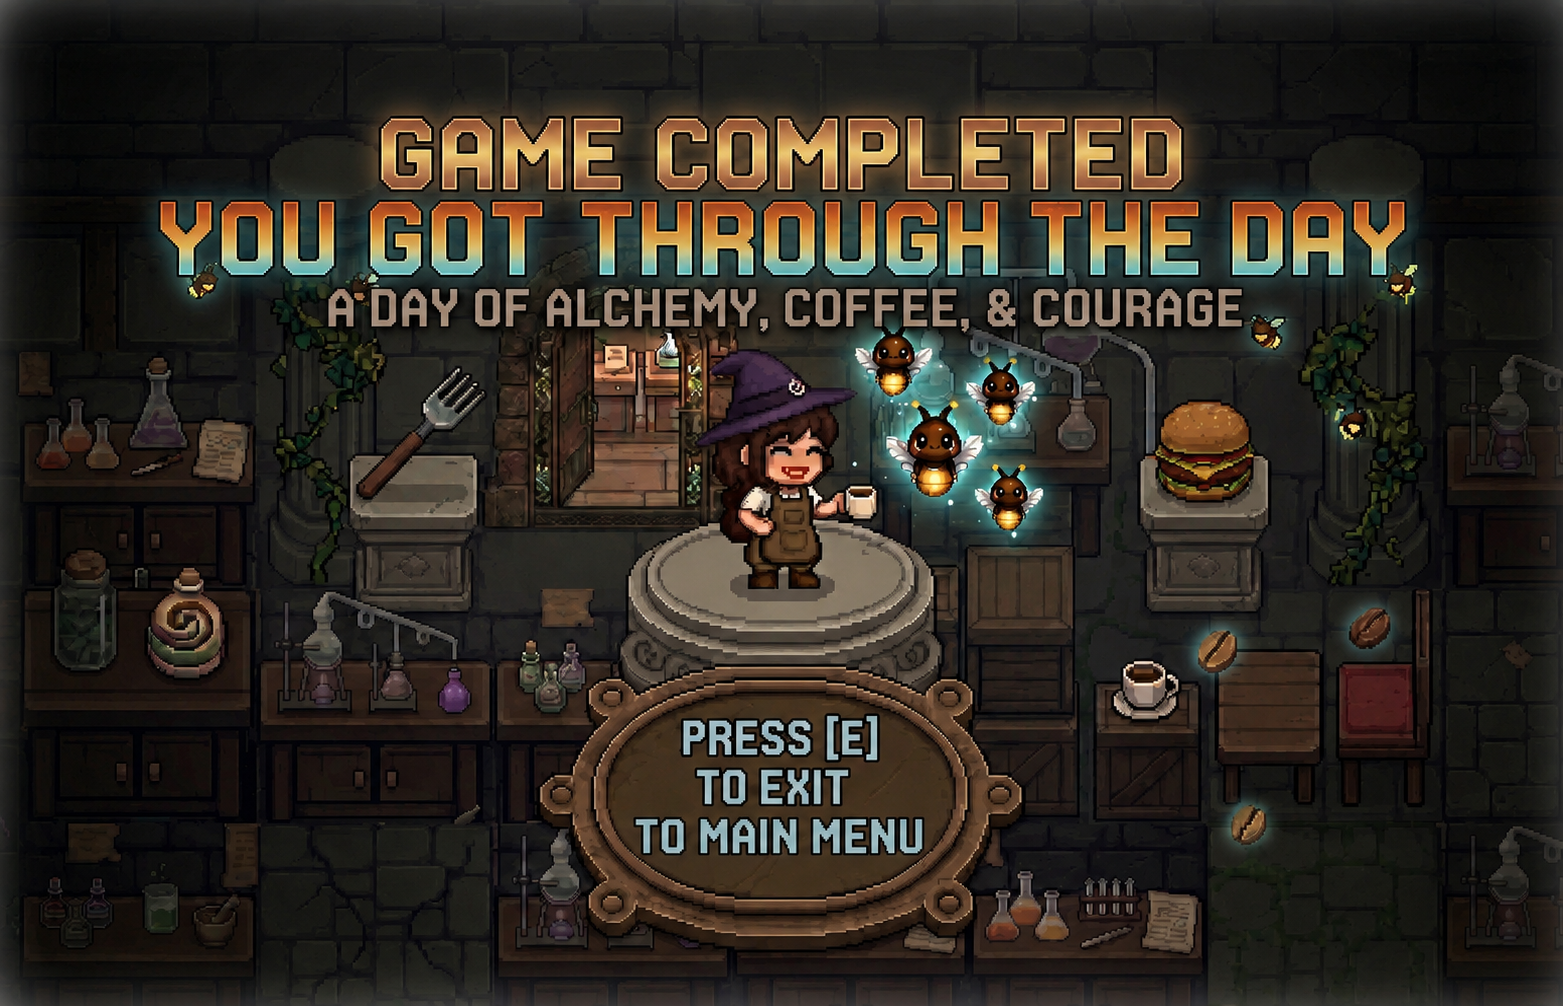
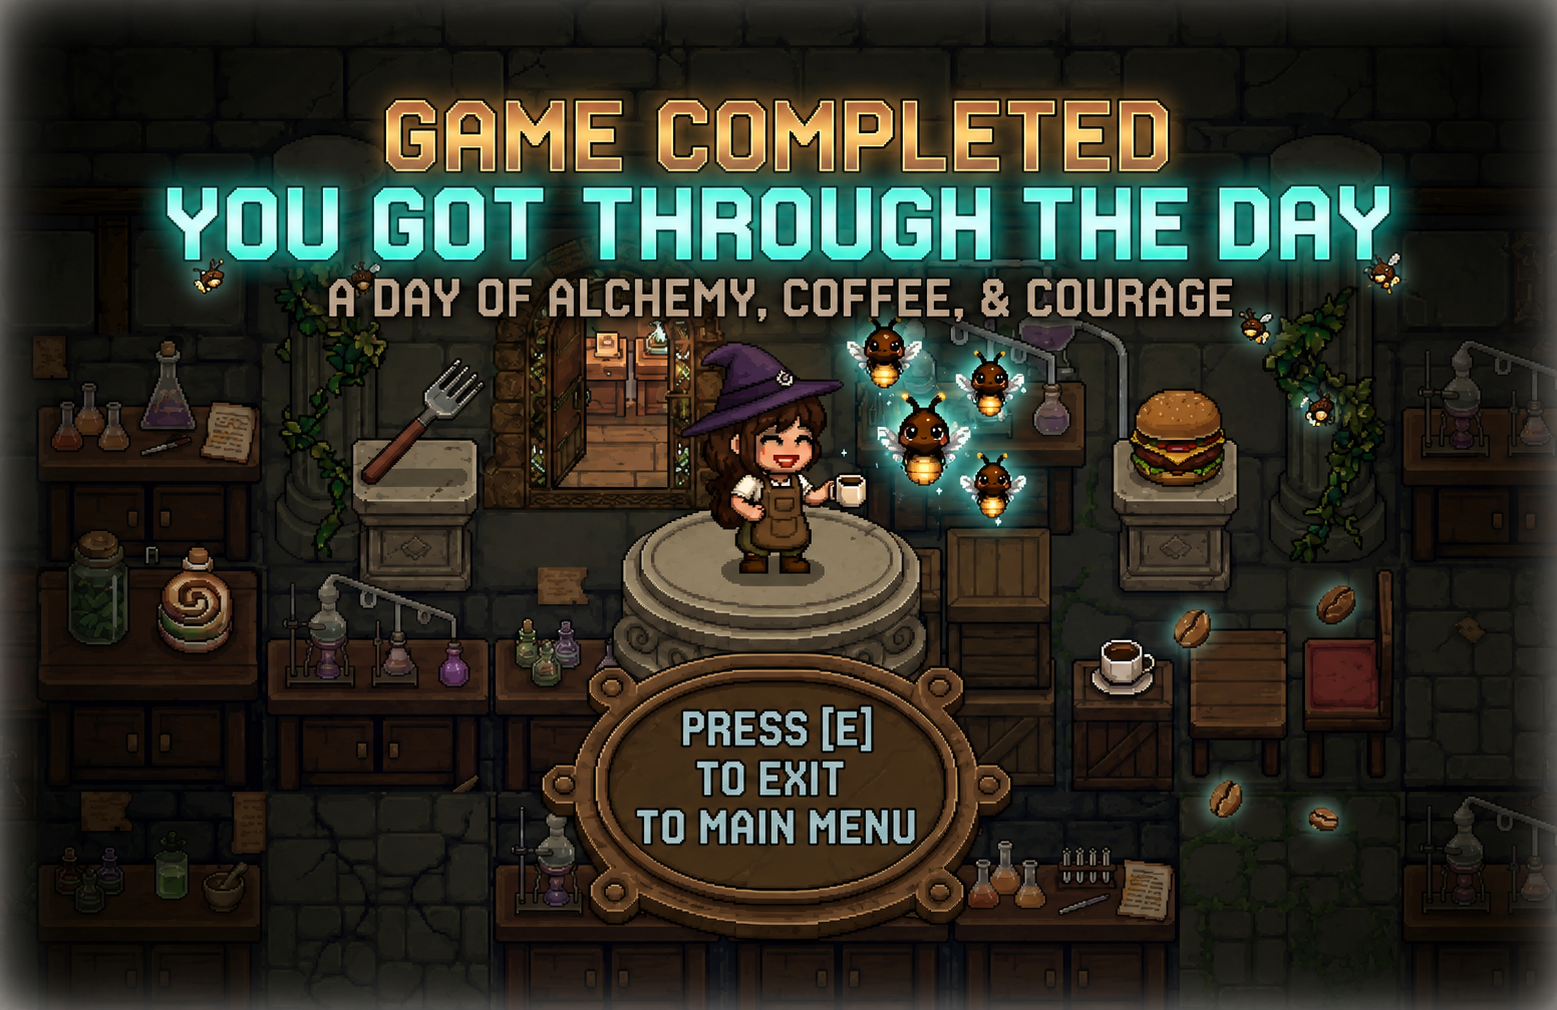
assets

diff --git a/sketch.js b/sketch.js
@@ -1364,7 +1364,7 @@ function preload() {
 
   startScreen = loadImage("assets/images/homescreen.png");
   restartScreen = loadImage("assets/images/restartscreen.png");
-  levelOneComplete = loadImage("assets/images/level1complete.png");
+  levelOneComplete = loadImage("assets/images/completelvl1.png");
   fireflySprite = loadImage("assets/images/firefly.png");
   fireflyBadge = loadImage("assets/images/fireflybadge.png");
   potionbadge = loadImage("assets/images/potionbadge.png");
